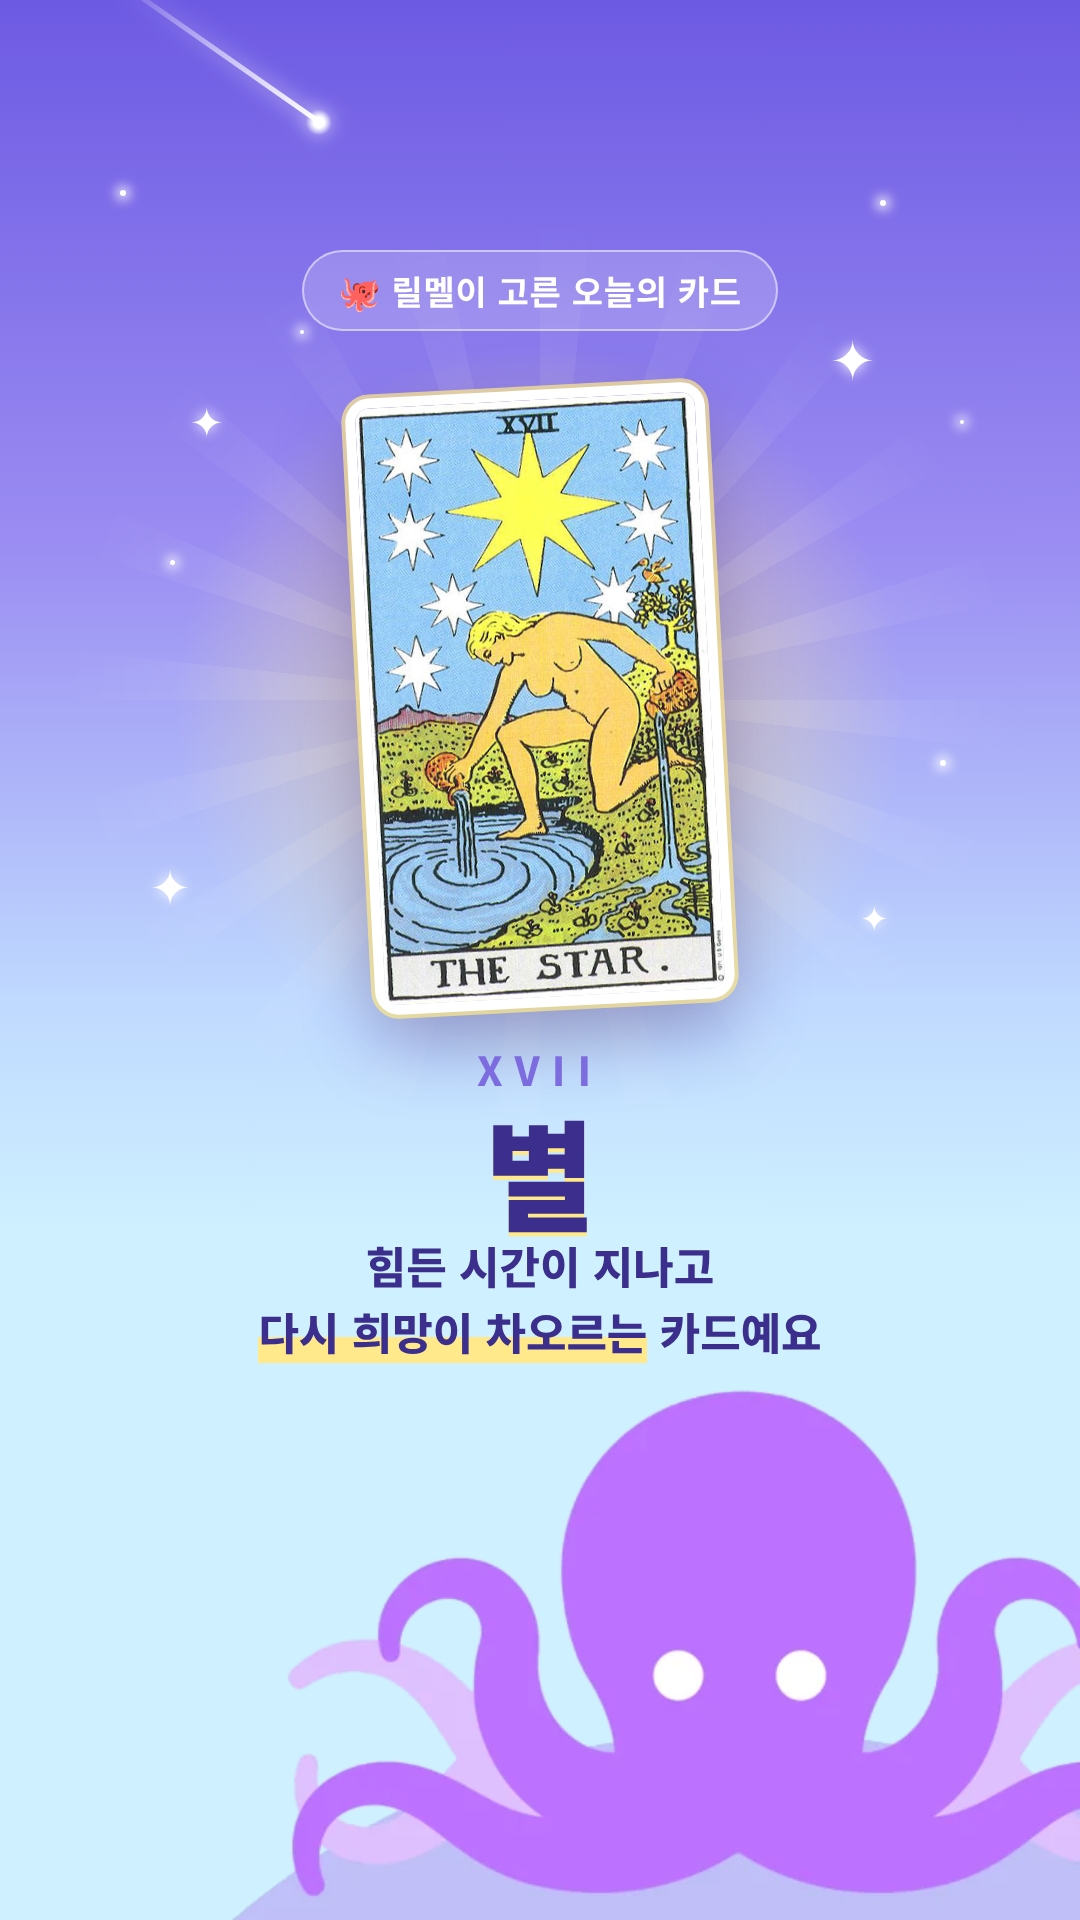
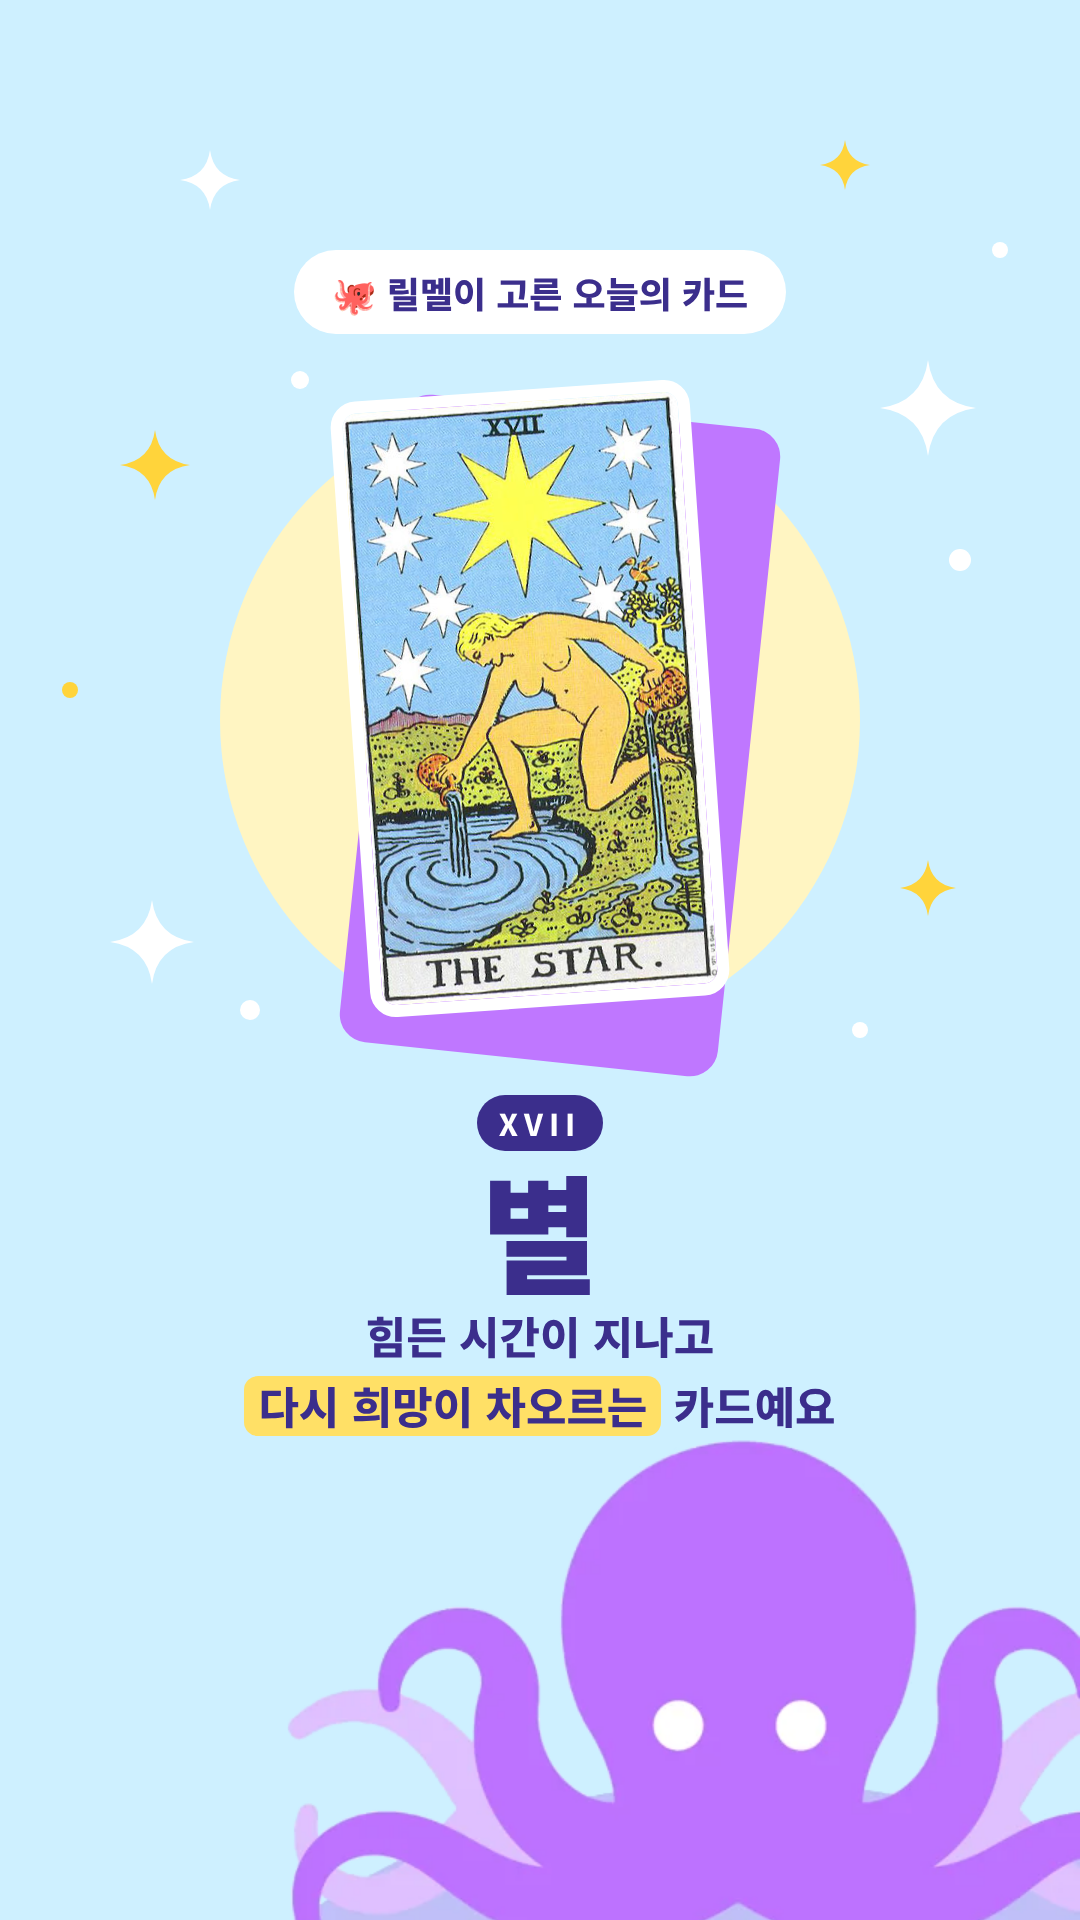
릴스 '별' 편 스크린샷: 그라데이션·그림자 없는 플랫 디자인으로 변경
Claude-Session: https://claude.ai/code/session_01CejgdC5FKbbZMnpaYgrfgJ

diff --git a/promo/src/reel_star_frame.html b/promo/src/reel_star_frame.html
@@ -2,41 +2,42 @@
 <html lang="ko"><head><meta charset="utf-8">
 <link rel="stylesheet" href="base.css">
 <style>
-/* 릴스 '별' 편 · 6–9초 장면 (카드 공개 직후) · 1080×1920 */
-.f{position:relative;width:1080px;height:1920px;overflow:hidden;
-  background:linear-gradient(180deg,#6D5AE3 0%,#9A8CF2 28%,#BFD9FF 52%,#CEF0FF 64%)}
-.hill{position:absolute;left:0;bottom:-420px;width:1080px}
+/* 릴스 '별' 편 · 6–9초 장면 (카드 공개 직후) · 1080×1920 · 플랫 디자인 (그라데이션·그림자 없음) */
+.f{position:relative;width:1080px;height:1920px;overflow:hidden;background:#CEF0FF}
+.hill{position:absolute;left:0;bottom:-470px;width:1080px}
 .top{position:absolute;top:250px;left:0;right:0;text-align:center}
-.pill{display:inline-block;padding:14px 34px;background:rgba(255,255,255,.18);border:2px solid rgba(255,255,255,.5);border-radius:999px;font-size:34px;font-weight:700;color:#FFF;letter-spacing:.02em}
-.glow{position:absolute;left:50%;top:330px;width:760px;height:760px;margin-left:-380px;border-radius:50%;
-  background:radial-gradient(circle,rgba(255,233,138,.85) 0%,rgba(255,233,138,.35) 35%,rgba(255,233,138,0) 68%)}
-.ray{position:absolute;left:50%;top:700px;width:1100px;height:1100px;margin:-550px 0 0 -550px;
-  background:repeating-conic-gradient(rgba(255,255,255,.16) 0 6deg,transparent 6deg 18deg);
-  -webkit-mask:radial-gradient(circle,#000 20%,transparent 62%);mask:radial-gradient(circle,#000 20%,transparent 62%)}
-.card{position:absolute;left:50%;top:390px;width:360px;margin-left:-180px;transform:rotate(-3deg)}
-.card .tcard{border-width:10px;border-radius:24px;box-shadow:0 0 0 4px rgba(255,233,138,.7),0 30px 70px rgba(59,46,140,.4)}
-.title{position:absolute;top:1040px;left:0;right:0;text-align:center}
-.num{font-size:40px;font-weight:800;letter-spacing:.3em;color:var(--accent)}
-.name{margin-top:6px;font-size:120px;line-height:1.1;font-weight:900;color:var(--ink);text-shadow:0 4px 0 #FFE98A}
-.msg{position:absolute;top:1232px;z-index:2;left:110px;right:110px;text-align:center;font-size:44px;line-height:1.5;font-weight:800;color:var(--ink)}
-.msg .hl{background:linear-gradient(transparent 60%,#FFE98A 60%)}
-.sp{position:absolute;color:#FFF;font-size:40px;line-height:1;text-shadow:0 0 14px #FFF}
+.pill{display:inline-block;padding:16px 38px;background:#FFF;border-radius:999px;font-size:36px;font-weight:800;color:var(--ink)}
+/* 카드 뒤 단색 원 + 기울인 보라 판 */
+.disc{position:absolute;left:50%;top:400px;width:640px;height:640px;margin-left:-320px;border-radius:50%;background:#FFF5C2}
+.plate{position:absolute;left:50%;top:410px;width:380px;height:651px;margin-left:-170px;border-radius:28px;background:var(--octo);transform:rotate(6deg)}
+.card{position:absolute;left:50%;top:390px;width:360px;margin-left:-190px;transform:rotate(-4deg)}
+.card .tcard{border-width:12px;border-radius:26px;box-shadow:none}
+.title{position:absolute;top:1095px;left:0;right:0;text-align:center}
+.num{display:inline-block;padding:6px 22px;background:var(--ink);border-radius:999px;font-size:30px;font-weight:800;letter-spacing:.2em;color:#FFF}
+.name{margin-top:4px;font-size:128px;line-height:1.15;font-weight:900;color:var(--ink)}
+.msg{position:absolute;top:1300px;z-index:2;left:90px;right:90px;text-align:center;font-size:44px;line-height:1.6;font-weight:800;color:var(--ink)}
+.msg .mk{display:inline-block;padding:0 14px;background:#FFE066;border-radius:14px;line-height:1.35}
+svg.s{position:absolute}
 </style></head><body>
 <div class="f" id="frame">
-  <div class="ray"></div>
-  <div class="glow"></div>
-  <!-- 반짝이 -->
-  <span class="star" style="left:120px;top:190px"></span><span class="star" style="left:300px;top:330px;width:4px;height:4px"></span>
-  <span class="star" style="left:880px;top:200px"></span><span class="star" style="left:960px;top:420px;width:4px;height:4px"></span>
-  <span class="star" style="left:170px;top:560px;width:5px;height:5px"></span><span class="star" style="left:940px;top:760px"></span>
-  <span class="sp" style="left:190px;top:400px">✦</span><span class="sp" style="left:830px;top:330px;font-size:54px">✦</span>
-  <span class="sp" style="left:860px;top:900px;font-size:34px">✦</span><span class="sp" style="left:150px;top:860px;font-size:48px">✦</span>
-  <div class="meteor" style="left:60px;top:120px;width:260px"></div>
+  <!-- 단색 반짝이 (4각 별) · 점 -->
+  <svg class="s" style="left:120px;top:430px" width="70" height="70" viewBox="0 0 10 10"><path d="M5 0Q5.6 4.4 10 5Q5.6 5.6 5 10Q4.4 5.6 0 5Q4.4 4.4 5 0z" fill="#FFD43B"/></svg>
+  <svg class="s" style="left:880px;top:360px" width="96" height="96" viewBox="0 0 10 10"><path d="M5 0Q5.6 4.4 10 5Q5.6 5.6 5 10Q4.4 5.6 0 5Q4.4 4.4 5 0z" fill="#FFF"/></svg>
+  <svg class="s" style="left:900px;top:860px" width="56" height="56" viewBox="0 0 10 10"><path d="M5 0Q5.6 4.4 10 5Q5.6 5.6 5 10Q4.4 5.6 0 5Q4.4 4.4 5 0z" fill="#FFD43B"/></svg>
+  <svg class="s" style="left:110px;top:900px" width="84" height="84" viewBox="0 0 10 10"><path d="M5 0Q5.6 4.4 10 5Q5.6 5.6 5 10Q4.4 5.6 0 5Q4.4 4.4 5 0z" fill="#FFF"/></svg>
+  <svg class="s" style="left:180px;top:150px" width="60" height="60" viewBox="0 0 10 10"><path d="M5 0Q5.6 4.4 10 5Q5.6 5.6 5 10Q4.4 5.6 0 5Q4.4 4.4 5 0z" fill="#FFF"/></svg>
+  <svg class="s" style="left:820px;top:140px" width="50" height="50" viewBox="0 0 10 10"><path d="M5 0Q5.6 4.4 10 5Q5.6 5.6 5 10Q4.4 5.6 0 5Q4.4 4.4 5 0z" fill="#FFD43B"/></svg>
+  <svg class="s" style="left:0;top:0" width="1080" height="1100">
+    <circle cx="300" cy="380" r="9" fill="#FFF"/><circle cx="960" cy="560" r="11" fill="#FFF"/><circle cx="70" cy="690" r="8" fill="#FFD43B"/>
+    <circle cx="1000" cy="250" r="8" fill="#FFF"/><circle cx="250" cy="1010" r="10" fill="#FFF"/><circle cx="860" cy="1030" r="8" fill="#FFF"/>
+  </svg>
 
   <div class="top"><span class="pill">🐙 릴멜이 고른 오늘의 카드</span></div>
+  <div class="disc"></div>
+  <div class="plate"></div>
   <div class="card"><img class="tcard" src="../../images/tr17.jpg" alt="별 카드"></div>
-  <div class="title"><div class="num">XVII</div><div class="name">별</div></div>
-  <p class="msg">힘든 시간이 지나고<br><span class="hl">다시 희망이 차오르는</span> 카드예요</p>
+  <div class="title"><span class="num">XVII</span><div class="name">별</div></div>
+  <p class="msg">힘든 시간이 지나고<br><span class="mk">다시 희망이 차오르는</span> 카드예요</p>
   <img class="hill" src="hill.png" alt="">
 </div>
 </body></html>
